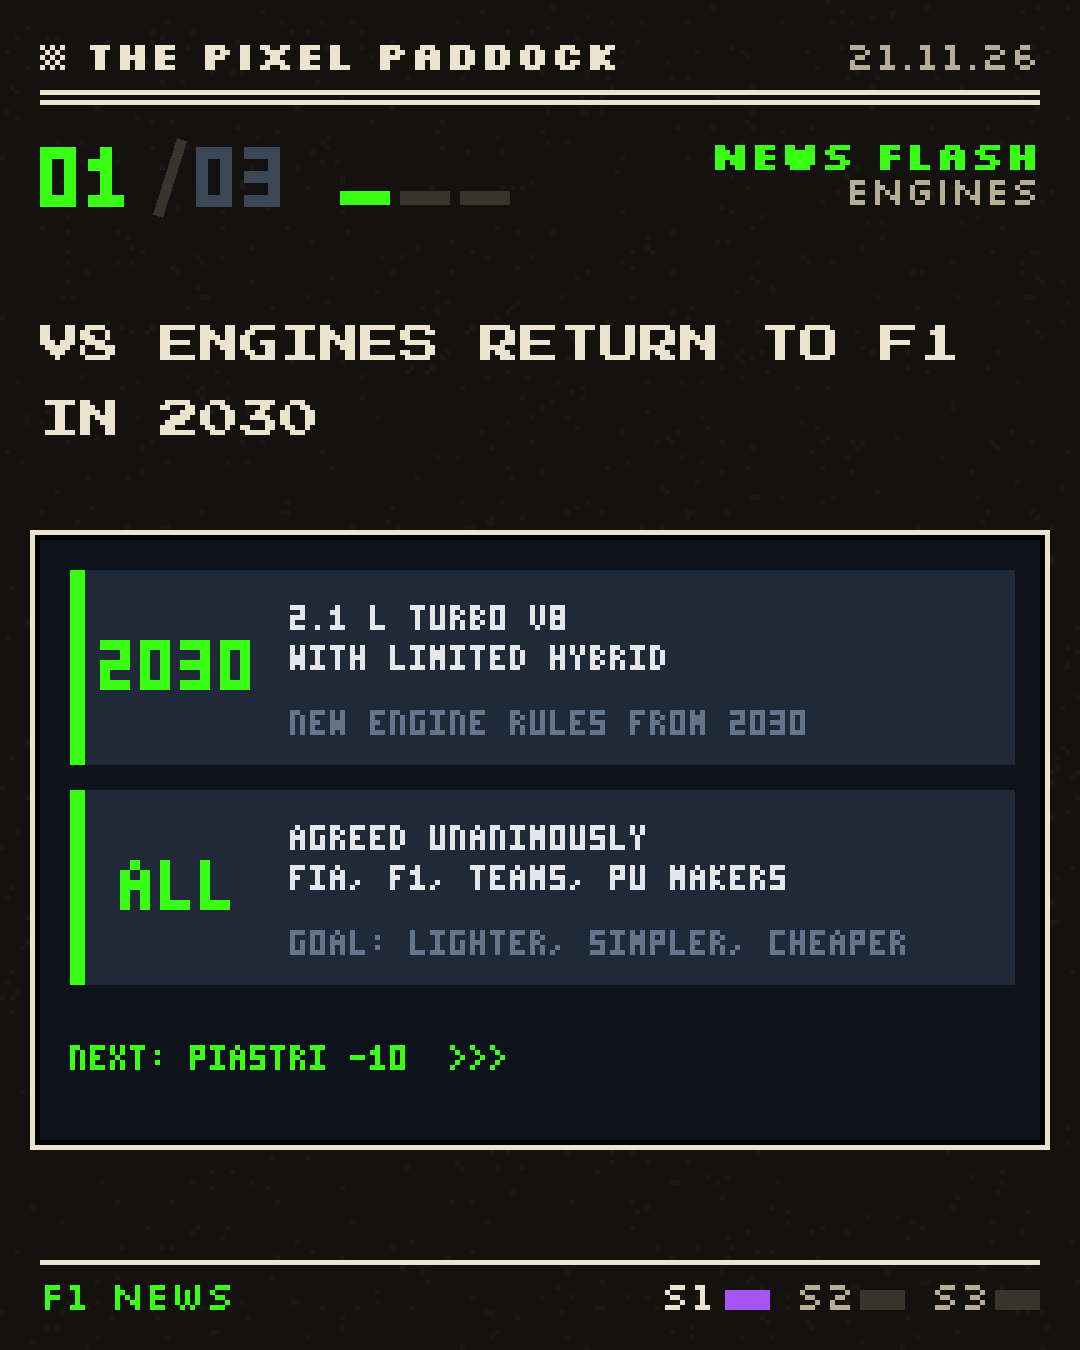
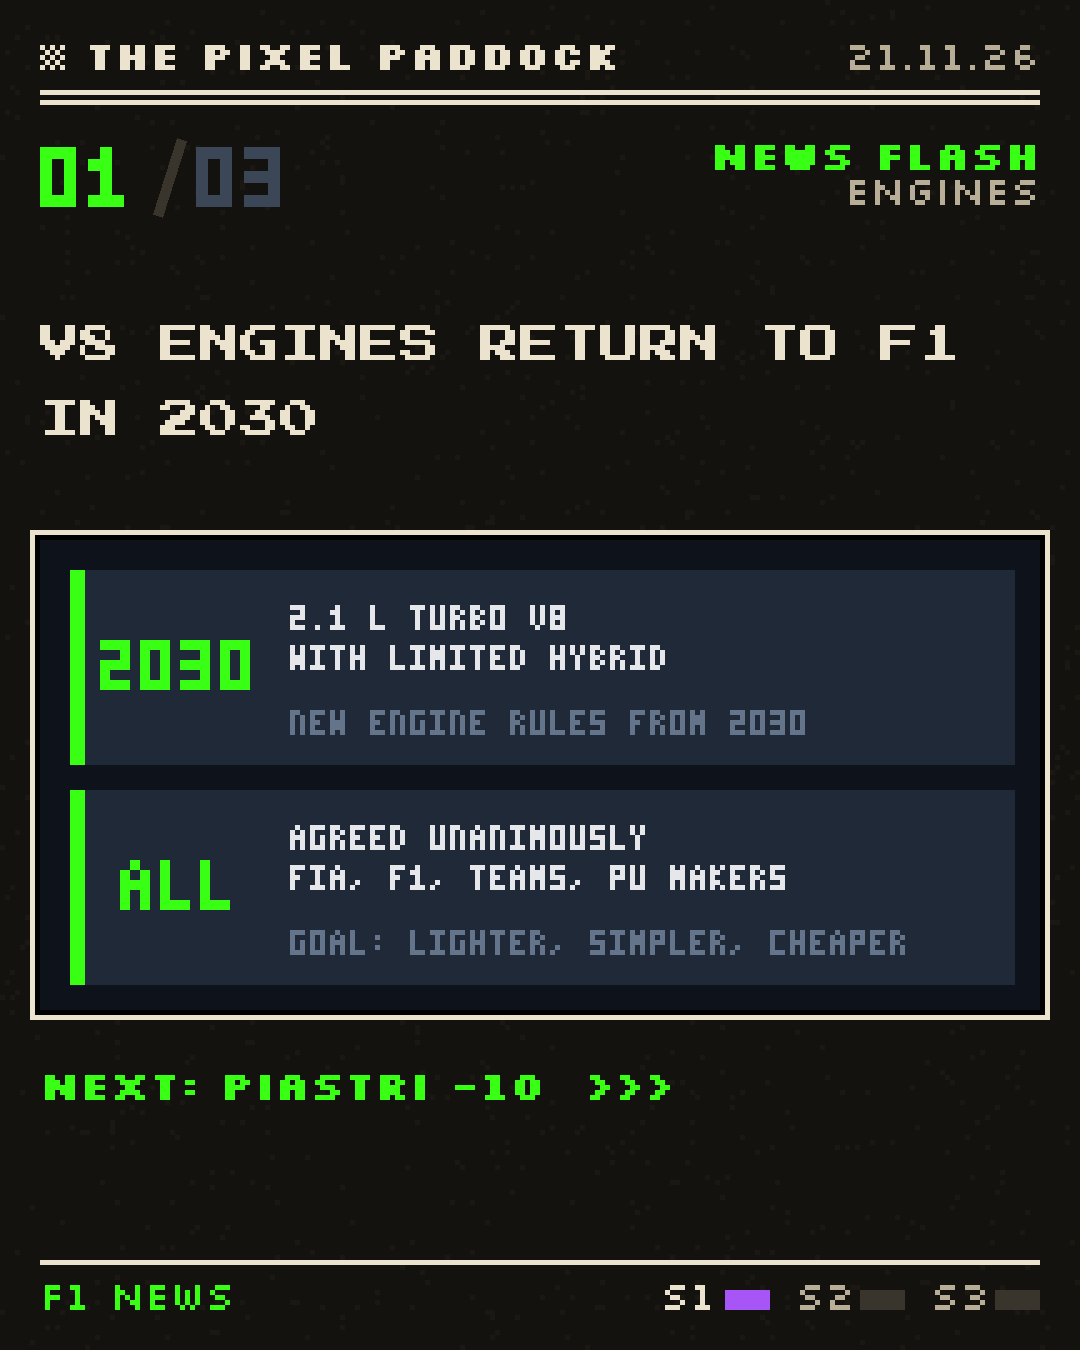
News Flash v5: no progress bars, NEXT below the frame
Claude-Session: https://claude.ai/code/session_01XcMK5Sp6yyyARadsj7RYTL

Changed region(s): [[0.0306, 0.7467, 0.9778, 0.8711], [0.3056, 0.1244, 0.4889, 0.1556]]

diff --git a/posts/2026-11-21_news-flash/script.py b/posts/2026-11-21_news-flash/script.py
@@ -33,8 +33,6 @@ def counter(im, d, i, st, first):
     paste_px(im, 40, y, f"0{i+1}", st["col"], 12)                       # 01 in story colour
     d.line([(158, y+80), (182, y+4)], fill=C["rule"], width=10)         # slash
     paste_px(im, 196, y, "03", hx("#3b4656"), 12)                       # 03 big, subdued
-    for j in range(3):                                                  # colour-coded progress
-        R(d, 340+j*60, y+56, 390+j*60, y+70, st["col"] if j == i else C["rule"])
     lab = "NEWS FLASH"; text(im, W-40-tlen("labelb", lab), y+36, lab, "labelb", C["red"])
     text(im, W-40-tlen("label", st["tag"]), y+70, st["tag"], "label", C["mute"])
 
@@ -47,10 +45,8 @@ def card(d, im, y, c, stat, h1, h2, ctx):
 def scene_for(order, i):
     st = STORIES[order[i]]
     def s():
-        im = Image.new("RGB", (200, 120), BG); d = ImageDraw.Draw(im)
+        im = Image.new("RGB", (200, 94), BG); d = ImageDraw.Draw(im)
         for k, cd in enumerate(st["cards"]): card(d, im, 6+k*44, st["col"], *cd)
-        if i < 2: tx(d, 6, 101, f"NEXT: {STORIES[order[i+1]]['teaser']}  >>>", GREEN)
-        else:     tx(d, 6, 101, "THAT'S ALL 3. FOLLOW FOR MORE", GREEN)
         return im
     return s
 
@@ -58,7 +54,10 @@ def slide(k, head, order, foot, name):
     im, d = page(k, 3, DATE)
     counter(im, d, k-1, STORIES[order[k-1]], k == 1)
     y = headline(im, head, top=330)
-    framed(im, scene_for(order, k-1)(), 40, y + 100)
+    yb = framed(im, scene_for(order, k-1)(), 40, y + 100)
+    i = k-1
+    nxt = f"NEXT: {STORIES[order[i+1]]['teaser']}  >>>" if i < 2 else "THAT'S ALL 3. FOLLOW FOR MORE"
+    text(im, 40, yb + 80, nxt, "labelb", C["red"])
     footer(im, d, k, foot); im.save(f"{OUT}/{name}.png")
 
 HEAD = {"v8": "V8 ENGINES RETURN TO F1 IN 2030", "pia": "PIASTRI GETS A 10-PLACE GRID DROP", "bot": "BOTTAS STAYS, NO 2027 SEAT FOR HERTA"}

diff --git a/toolkit/examples/post_newsflash.py b/toolkit/examples/post_newsflash.py
@@ -33,8 +33,6 @@ def counter(im, d, i, st, first):
     paste_px(im, 40, y, f"0{i+1}", st["col"], 12)                       # 01 in story colour
     d.line([(158, y+80), (182, y+4)], fill=C["rule"], width=10)         # slash
     paste_px(im, 196, y, "03", hx("#3b4656"), 12)                       # 03 big, subdued
-    for j in range(3):                                                  # colour-coded progress
-        R(d, 340+j*60, y+56, 390+j*60, y+70, st["col"] if j == i else C["rule"])
     lab = "NEWS FLASH"; text(im, W-40-tlen("labelb", lab), y+36, lab, "labelb", C["red"])
     text(im, W-40-tlen("label", st["tag"]), y+70, st["tag"], "label", C["mute"])
 
@@ -47,10 +45,8 @@ def card(d, im, y, c, stat, h1, h2, ctx):
 def scene_for(order, i):
     st = STORIES[order[i]]
     def s():
-        im = Image.new("RGB", (200, 120), BG); d = ImageDraw.Draw(im)
+        im = Image.new("RGB", (200, 94), BG); d = ImageDraw.Draw(im)
         for k, cd in enumerate(st["cards"]): card(d, im, 6+k*44, st["col"], *cd)
-        if i < 2: tx(d, 6, 101, f"NEXT: {STORIES[order[i+1]]['teaser']}  >>>", GREEN)
-        else:     tx(d, 6, 101, "THAT'S ALL 3. FOLLOW FOR MORE", GREEN)
         return im
     return s
 
@@ -58,7 +54,10 @@ def slide(k, head, order, foot, name):
     im, d = page(k, 3, DATE)
     counter(im, d, k-1, STORIES[order[k-1]], k == 1)
     y = headline(im, head, top=330)
-    framed(im, scene_for(order, k-1)(), 40, y + 100)
+    yb = framed(im, scene_for(order, k-1)(), 40, y + 100)
+    i = k-1
+    nxt = f"NEXT: {STORIES[order[i+1]]['teaser']}  >>>" if i < 2 else "THAT'S ALL 3. FOLLOW FOR MORE"
+    text(im, 40, yb + 80, nxt, "labelb", C["red"])
     footer(im, d, k, foot); im.save(f"{OUT}/{name}.png")
 
 HEAD = {"v8": "V8 ENGINES RETURN TO F1 IN 2030", "pia": "PIASTRI GETS A 10-PLACE GRID DROP", "bot": "BOTTAS STAYS, NO 2027 SEAT FOR HERTA"}
